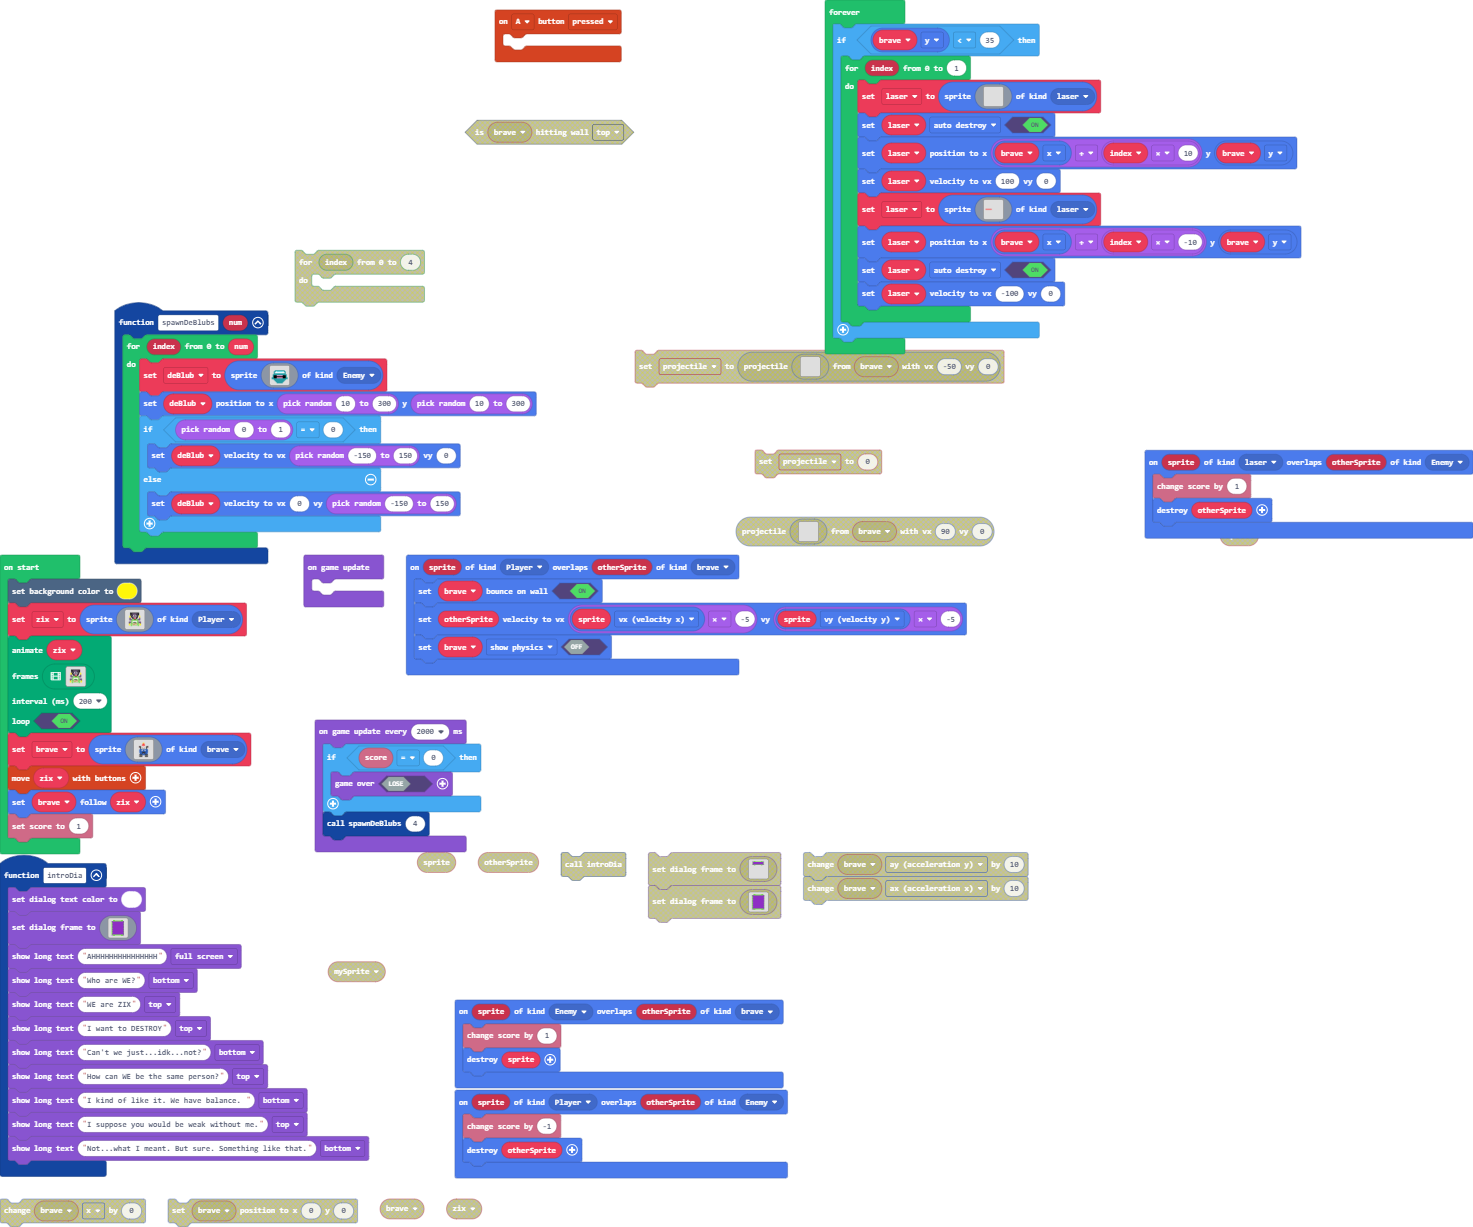
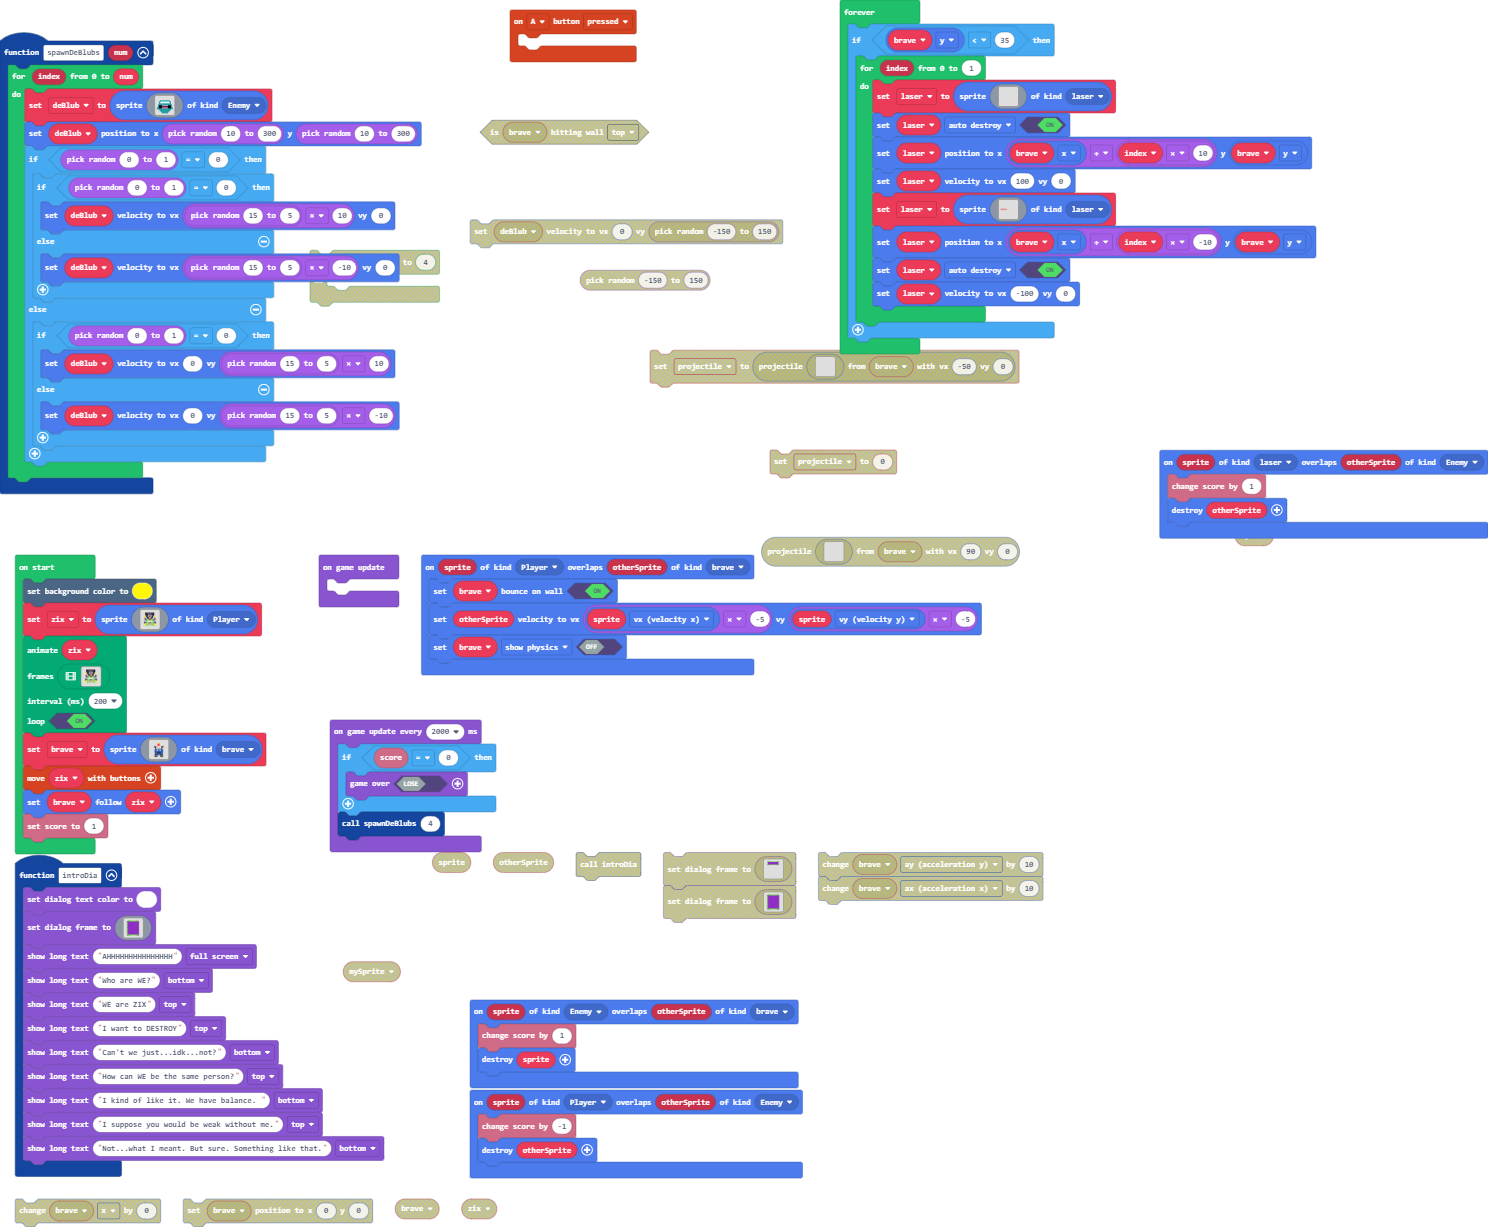
Update main.blocks, main.ts

diff --git a/main.ts b/main.ts
@@ -65,9 +65,17 @@ function spawnDeBlubs (num: number) {
         deBlub = sprites.create(assets.image`deBlub`, SpriteKind.Enemy)
         deBlub.setPosition(randint(10, 300), randint(10, 300))
         if (randint(0, 1) == 0) {
-            deBlub.setVelocity(randint(-150, 150), 0)
+            if (randint(0, 1) == 0) {
+                deBlub.setVelocity(randint(15, 5) * 10, 0)
+            } else {
+                deBlub.setVelocity(randint(15, 5) * -10, 0)
+            }
         } else {
-            deBlub.setVelocity(0, randint(-150, 150))
+            if (randint(0, 1) == 0) {
+                deBlub.setVelocity(0, randint(15, 5) * 10)
+            } else {
+                deBlub.setVelocity(0, randint(15, 5) * -10)
+            }
         }
     }
 }
